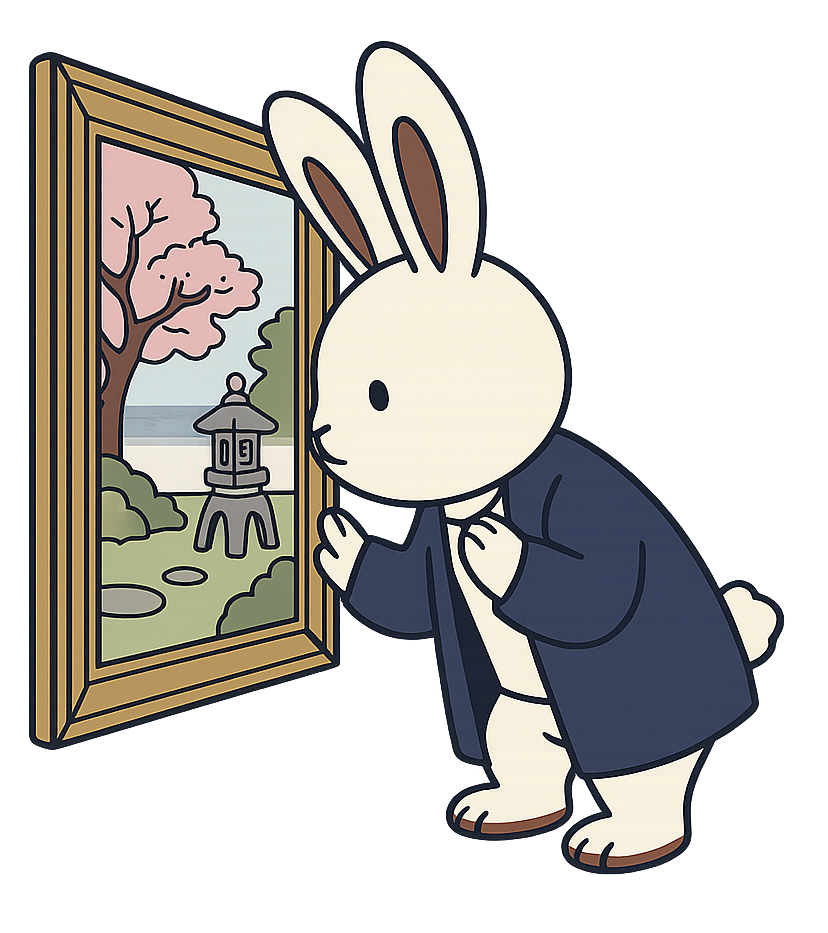
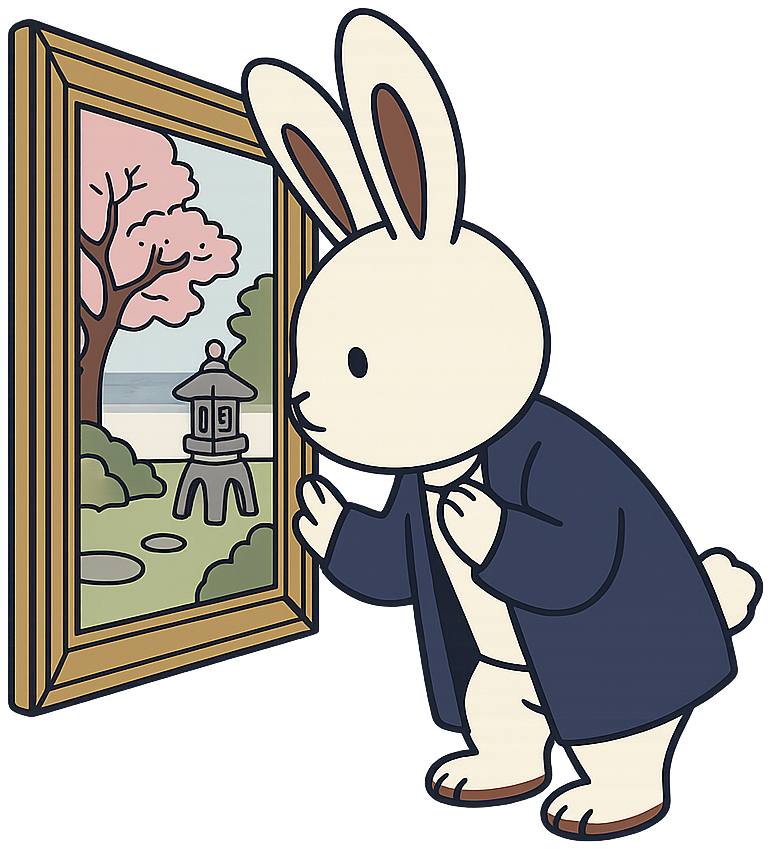
はじめかたの画像サイズを揃えました

diff --git a/resources/views/pages/⚡welcome.blade.php b/resources/views/pages/⚡welcome.blade.php
@@ -210,28 +210,44 @@ new #[Layout('layouts.public')] class extends Component
 
         <h2 class="mb-6 text-lg font-bold text-sumi">はじめかた</h2>
 
-        <div class="flex items-start justify-center">
-            @foreach ([
-                ['お題の絵を見る', 'How-1.PNG', 'w-[140px]', 'h-36', 'max-h-36'],
-                ['物語を書く', 'How-2.PNG', 'w-[180px]', 'h-44', 'max-h-50'],
-                ['公開！！', 'How-3.PNG', 'w-[140px]', 'h-36', 'max-h-36'],
-            ] as $step)
-                @if (! $loop->first)
-                    <div class="px-3 pt-16 text-lg text-ai/30">›</div>
+        @php
+            $howSteps = [
+                ['お題の絵を見る', 'How-1.PNG'],
+                ['物語を書く', 'How-2.PNG'],
+                ['公開！！', 'How-3.PNG'],
+            ];
+        @endphp
+
+        <div class="mx-auto grid max-w-2xl grid-cols-[1fr_auto_1fr_auto_1fr] items-end gap-x-3">
+            @foreach ($howSteps as $index => $step)
+                @if ($index > 0)
+                    <div class="pb-2 text-center text-lg text-ai/30">›</div>
                 @endif
-                <div class="{{ $step[2] }} text-center">
-                    <div class="mx-auto mb-3 flex {{ $step[3] }} items-end justify-center">
-                        <img
-                            src="{{ asset('img/welcome/'.$step[1]) }}"
-                            alt="{{ $step[0] }}"
-                            class="{{ $step[4] }} w-auto object-contain"
-                        />
-                    </div>
-                    <div class="mx-auto mb-2 flex size-8 items-center justify-center rounded-full bg-ai text-sm text-washi-light">
-                        {{ $loop->iteration }}
-                    </div>
-                    <p class="m-0 text-base text-sumi/70">{{ $step[0] }}</p>
+                <div class="flex h-52 items-end justify-center">
+                    <img
+                        src="{{ asset('img/welcome/'.$step[1]) }}"
+                        alt="{{ $step[0] }}"
+                        class="h-full w-auto max-w-full object-contain object-bottom"
+                    />
                 </div>
+            @endforeach
+
+            @foreach ($howSteps as $index => $step)
+                @if ($index > 0)
+                    <div></div>
+                @endif
+                <div class="mt-3 flex justify-center">
+                    <div class="flex size-8 items-center justify-center rounded-full bg-ai text-sm text-washi-light">
+                        {{ $index + 1 }}
+                    </div>
+                </div>
+            @endforeach
+
+            @foreach ($howSteps as $index => $step)
+                @if ($index > 0)
+                    <div></div>
+                @endif
+                <p class="mt-2 text-center text-base text-sumi/70">{{ $step[0] }}</p>
             @endforeach
         </div>
     </section>
